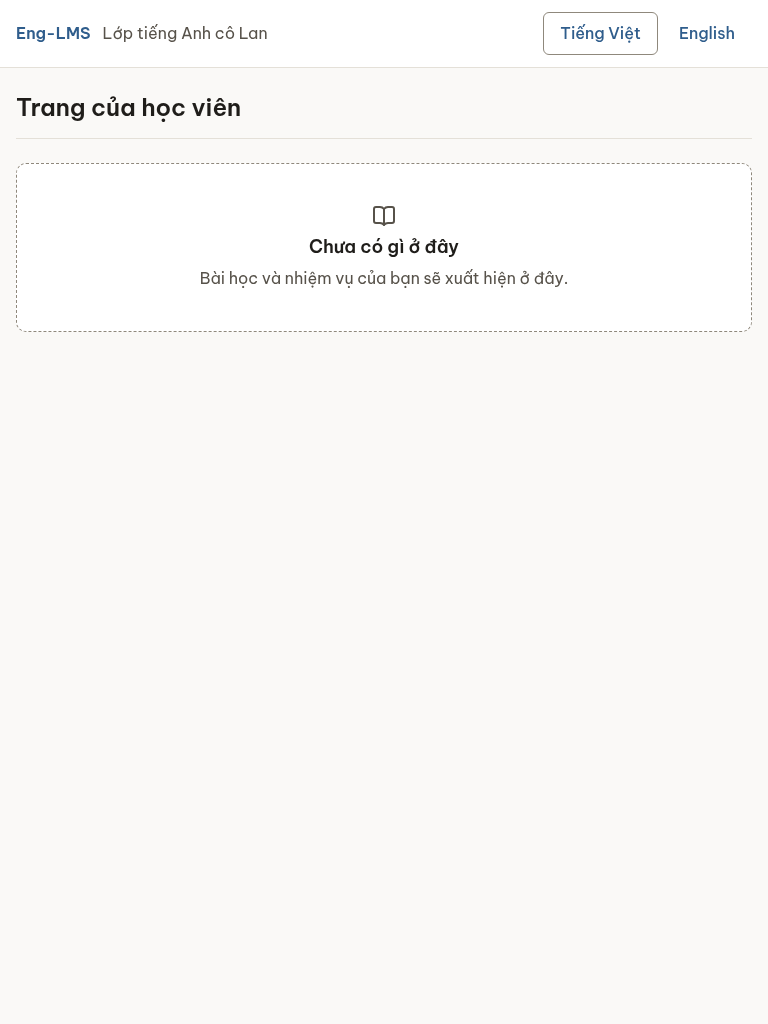
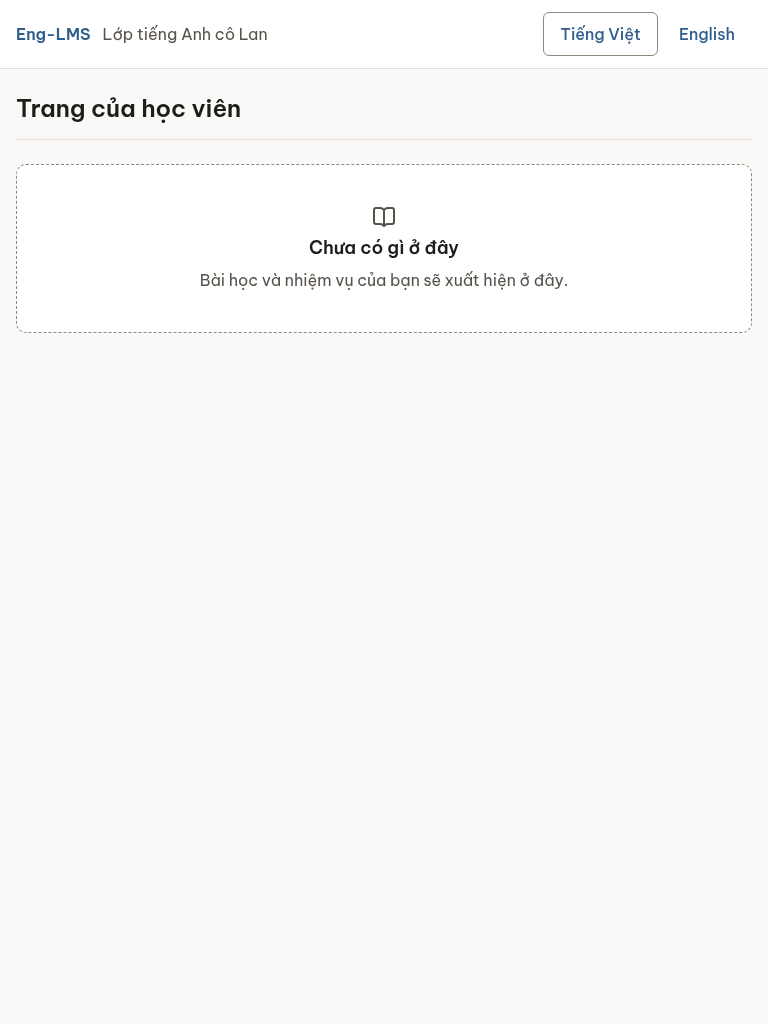
fix(web): T-M1.3 UX round 1 (44px controls, error copy, fallback, header error, headings, copy); DEC-043; handoff

diff --git a/web/src/app/app.test.tsx b/web/src/app/app.test.tsx
@@ -32,7 +32,7 @@ describe('routes and shells', () => {
     server.use(http.get('*/api/v1/meta', () => problem(500, 'INTERNAL_ERROR')))
     const { container } = renderRoute('/tutor')
     const alert = await screen.findByRole('alert')
-    expect(alert).toHaveTextContent('Không tải được thông tin không gian dạy học')
+    expect(alert).toHaveTextContent('Không tải được tên lớp')
     server.resetHandlers()
     await userEvent.click(within(alert).getByRole('button', { name: 'Thử lại' }))
     expect(await screen.findByText(META.displayName)).toBeInTheDocument()
@@ -43,6 +43,7 @@ describe('routes and shells', () => {
     const { container } = renderRoute('/khong-co')
     expect(await screen.findByRole('heading', { level: 1, name: 'Không tìm thấy trang' })).toBeInTheDocument()
     expect(screen.getByRole('link', { name: 'Về trang đầu' })).toHaveAttribute('href', '/')
+    expect(screen.getAllByRole('heading', { name: 'Không tìm thấy trang' })).toHaveLength(1)
     await expectNoAxeViolations(container)
   })
 
@@ -65,7 +66,7 @@ describe('routes and shells', () => {
     renderRoute('/student')
     await screen.findByRole('heading', { level: 1 })
     await userEvent.tab()
-    expect(screen.getByRole('link', { name: 'Bỏ qua, đến nội dung chính' })).toHaveFocus()
+    expect(screen.getByRole('link', { name: 'Chuyển đến nội dung chính' })).toHaveFocus()
     await waitFor(() => expect(screen.getByRole('main')).toHaveAttribute('id', 'main'))
   })
 })

diff --git a/web/src/app/routes/RouteError.tsx b/web/src/app/routes/RouteError.tsx
@@ -1,29 +1,25 @@
 import { useTranslation } from 'react-i18next'
 import { useRouteError } from 'react-router'
 import { ApiError } from '../../lib/api'
-import { Button, InlineAlert } from '../../ui'
+import { Button, PageHeader, Stack } from '../../ui'
 import styles from './Page.module.css'
 
-/** App-level error boundary. Shows a translated message and the request ID, never the raw error. */
+/** App-level error boundary. Shows specific, translated copy and the request ID, never the raw error. */
 export function RouteError() {
   const { t } = useTranslation()
   const error = useRouteError()
   const requestId = error instanceof ApiError ? error.requestId : null
   return (
     <main id="main" className={styles.page}>
-      <h1 className={styles.visuallyHidden}>{t('error.title')}</h1>
-      <InlineAlert
-        tone="danger"
-        title={t('error.title')}
-        action={
+      <Stack gap={4}>
+        <PageHeader title={t('error.title')} description={t('error.description')} />
+        {requestId ? <p>{t('error.requestId', { requestId })}</p> : null}
+        <div>
           <Button variant="secondary" onPress={() => window.location.reload()}>
             {t('error.reload')}
           </Button>
-        }
-      >
-        <p>{t('error.description')}</p>
-        {requestId ? <p>{t('error.requestId', { requestId })}</p> : null}
-      </InlineAlert>
+        </div>
+      </Stack>
     </main>
   )
 }

diff --git a/web/src/app/components/WorkspaceName.tsx b/web/src/app/components/WorkspaceName.tsx
@@ -1,8 +1,9 @@
 import { useTranslation } from 'react-i18next'
 import { useMeta } from '../../features/settings/api/useMeta'
-import { Button, InlineAlert, Skeleton } from '../../ui'
+import { Button, Skeleton } from '../../ui'
+import styles from './WorkspaceName.module.css'
 
-/** The workspace display name from `GET /api/v1/meta`, with loading and error states. */
+/** The workspace display name from `GET /api/v1/meta`, with loading and a compact (header-sized) error state. */
 export function WorkspaceName() {
   const { t } = useTranslation()
   const meta = useMeta()
@@ -15,15 +16,12 @@ export function WorkspaceName() {
   }
   if (meta.isError) {
     return (
-      <InlineAlert
-        tone="danger"
-        title={t('meta.error')}
-        action={
-          <Button variant="secondary" onPress={() => void meta.refetch()}>
-            {t('meta.retry')}
-          </Button>
-        }
-      />
+      <div role="alert" className={styles.error}>
+        <span>{t('meta.error')}</span>
+        <Button variant="quiet" onPress={() => void meta.refetch()}>
+          {t('meta.retry')}
+        </Button>
+      </div>
     )
   }
   return <span>{meta.data.displayName}</span>

diff --git a/web/src/ui/InlineAlert.tsx b/web/src/ui/InlineAlert.tsx
@@ -15,12 +15,11 @@ export interface InlineAlertProps {
   action?: ReactNode
 }
 
-/** Status always pairs colour with an icon and text (design-system §4). Danger/warning are announced assertively. */
+/** Status always pairs colour with an icon and text (design-system §4). Only danger is announced assertively. */
 export function InlineAlert({ tone = 'info', title, children, action }: InlineAlertProps) {
   const Icon = ICONS[tone]
-  const urgent = tone === 'danger' || tone === 'warning'
   return (
-    <div role={urgent ? 'alert' : 'status'} className={cx(styles.alert, styles[tone])}>
+    <div role={tone === 'danger' ? 'alert' : 'status'} className={cx(styles.alert, styles[tone])}>
       <Icon aria-hidden="true" className={styles.icon} />
       <div className={styles.body}>
         <p className={styles.title}>{title}</p>

diff --git a/web/src/app/router.tsx b/web/src/app/router.tsx
@@ -1,5 +1,6 @@
 import { createBrowserRouter, createMemoryRouter, type RouteObject } from 'react-router'
 import { RouteError } from './routes/RouteError'
+import { RouteLoading } from './routes/RouteLoading'
 
 /**
  * Lazy route modules: the tutor and student shells are separate chunks, so a student never downloads tutor code
@@ -8,6 +9,7 @@ import { RouteError } from './routes/RouteError'
 export const routes: RouteObject[] = [
   {
     errorElement: <RouteError />,
+    hydrateFallbackElement: <RouteLoading />,
     children: [
       { index: true, lazy: async () => ({ Component: (await import('./routes/Landing')).Landing }) },
       { path: 'tutor/*', lazy: async () => ({ Component: (await import('./shells/TutorShell')).TutorShell }) },

diff --git a/web/src/app/routes/RouteLoading.tsx b/web/src/app/routes/RouteLoading.tsx
@@ -1,0 +1,16 @@
+import { useTranslation } from 'react-i18next'
+import { Skeleton, Stack } from '../../ui'
+import styles from './Page.module.css'
+
+/** Shown while a lazy route module loads on first visit (interaction-states §1: a layout-shaped skeleton, not a blank page). */
+export function RouteLoading() {
+  const { t } = useTranslation()
+  return (
+    <output aria-busy="true" aria-label={t('app.loading')} className={styles.page}>
+      <Stack gap={4}>
+        <Skeleton inlineSize="14em" blockSize="1.75rem" />
+        <Skeleton shape="block" inlineSize="100%" blockSize="8rem" />
+      </Stack>
+    </output>
+  )
+}

diff --git a/web/src/ui/EmptyState.tsx b/web/src/ui/EmptyState.tsx
@@ -9,11 +9,11 @@ export interface EmptyStateProps {
   /** The next useful action. */
   action?: ReactNode
   /** Heading level inside the page outline. */
-  headingLevel?: 2 | 3
+  headingLevel?: 1 | 2 | 3
 }
 
 export function EmptyState({ title, description, icon, action, headingLevel = 2 }: EmptyStateProps) {
-  const Heading = headingLevel === 2 ? 'h2' : 'h3'
+  const Heading = (['h1', 'h2', 'h3'] as const)[headingLevel - 1]!
   return (
     <section className={styles.empty}>
       {icon ? (

diff --git a/web/src/app/shells/ShellLayout.tsx b/web/src/app/shells/ShellLayout.tsx
@@ -18,9 +18,9 @@ export function ShellLayout({ navLabel, children }: { navLabel: string; children
           <Link to="/" className={styles.homeLink}>
             {t('app.name')}
           </Link>
-          <span className={styles.workspace}>
+          <div className={styles.workspace}>
             <WorkspaceName />
-          </span>
+          </div>
         </nav>
         <LanguageSwitcher />
       </header>

diff --git a/web/src/app/routes/NotFound.tsx b/web/src/app/routes/NotFound.tsx
@@ -8,8 +8,8 @@ export function NotFound() {
   const { t } = useTranslation()
   return (
     <main id="main" className={styles.page}>
-      <h1 className={styles.visuallyHidden}>{t('notFound.title')}</h1>
       <EmptyState
+        headingLevel={1}
         icon={<SearchX />}
         title={t('notFound.title')}
         description={t('notFound.description')}

diff --git a/web/src/ui/Display.test.tsx b/web/src/ui/Display.test.tsx
@@ -11,7 +11,7 @@ describe('InlineAlert', () => {
   it.each([
     ['info', 'status'],
     ['success', 'status'],
-    ['warning', 'alert'],
+    ['warning', 'status'],
     ['danger', 'alert'],
   ] as const)('%s uses role=%s, an icon and a text title', async (tone, role) => {
     const { container } = render(

diff --git a/web/src/ui/tokens.css b/web/src/ui/tokens.css
@@ -69,7 +69,7 @@
   --shadow-overlay: 0 8px 24px rgb(31 29 26 / 14%);
 
   /* Sizes */
-  --size-control-md: 2.5rem;
+  --size-control-md: 2.75rem; /* 44 px: inputs and primary targets (responsive-standards §3.4) */
   --size-control-lg: 3rem;
   --size-icon: 1.25rem;
   --size-content-max: 72rem;

diff --git a/web/src/app/routes/Page.module.css b/web/src/app/routes/Page.module.css
@@ -36,12 +36,3 @@
   background: var(--color-accent-subtle);
   color: var(--color-accent-strong);
 }
-
-.visuallyHidden {
-  position: absolute;
-  inline-size: 1px;
-  block-size: 1px;
-  overflow: hidden;
-  clip-path: inset(50%);
-  white-space: nowrap;
-}
